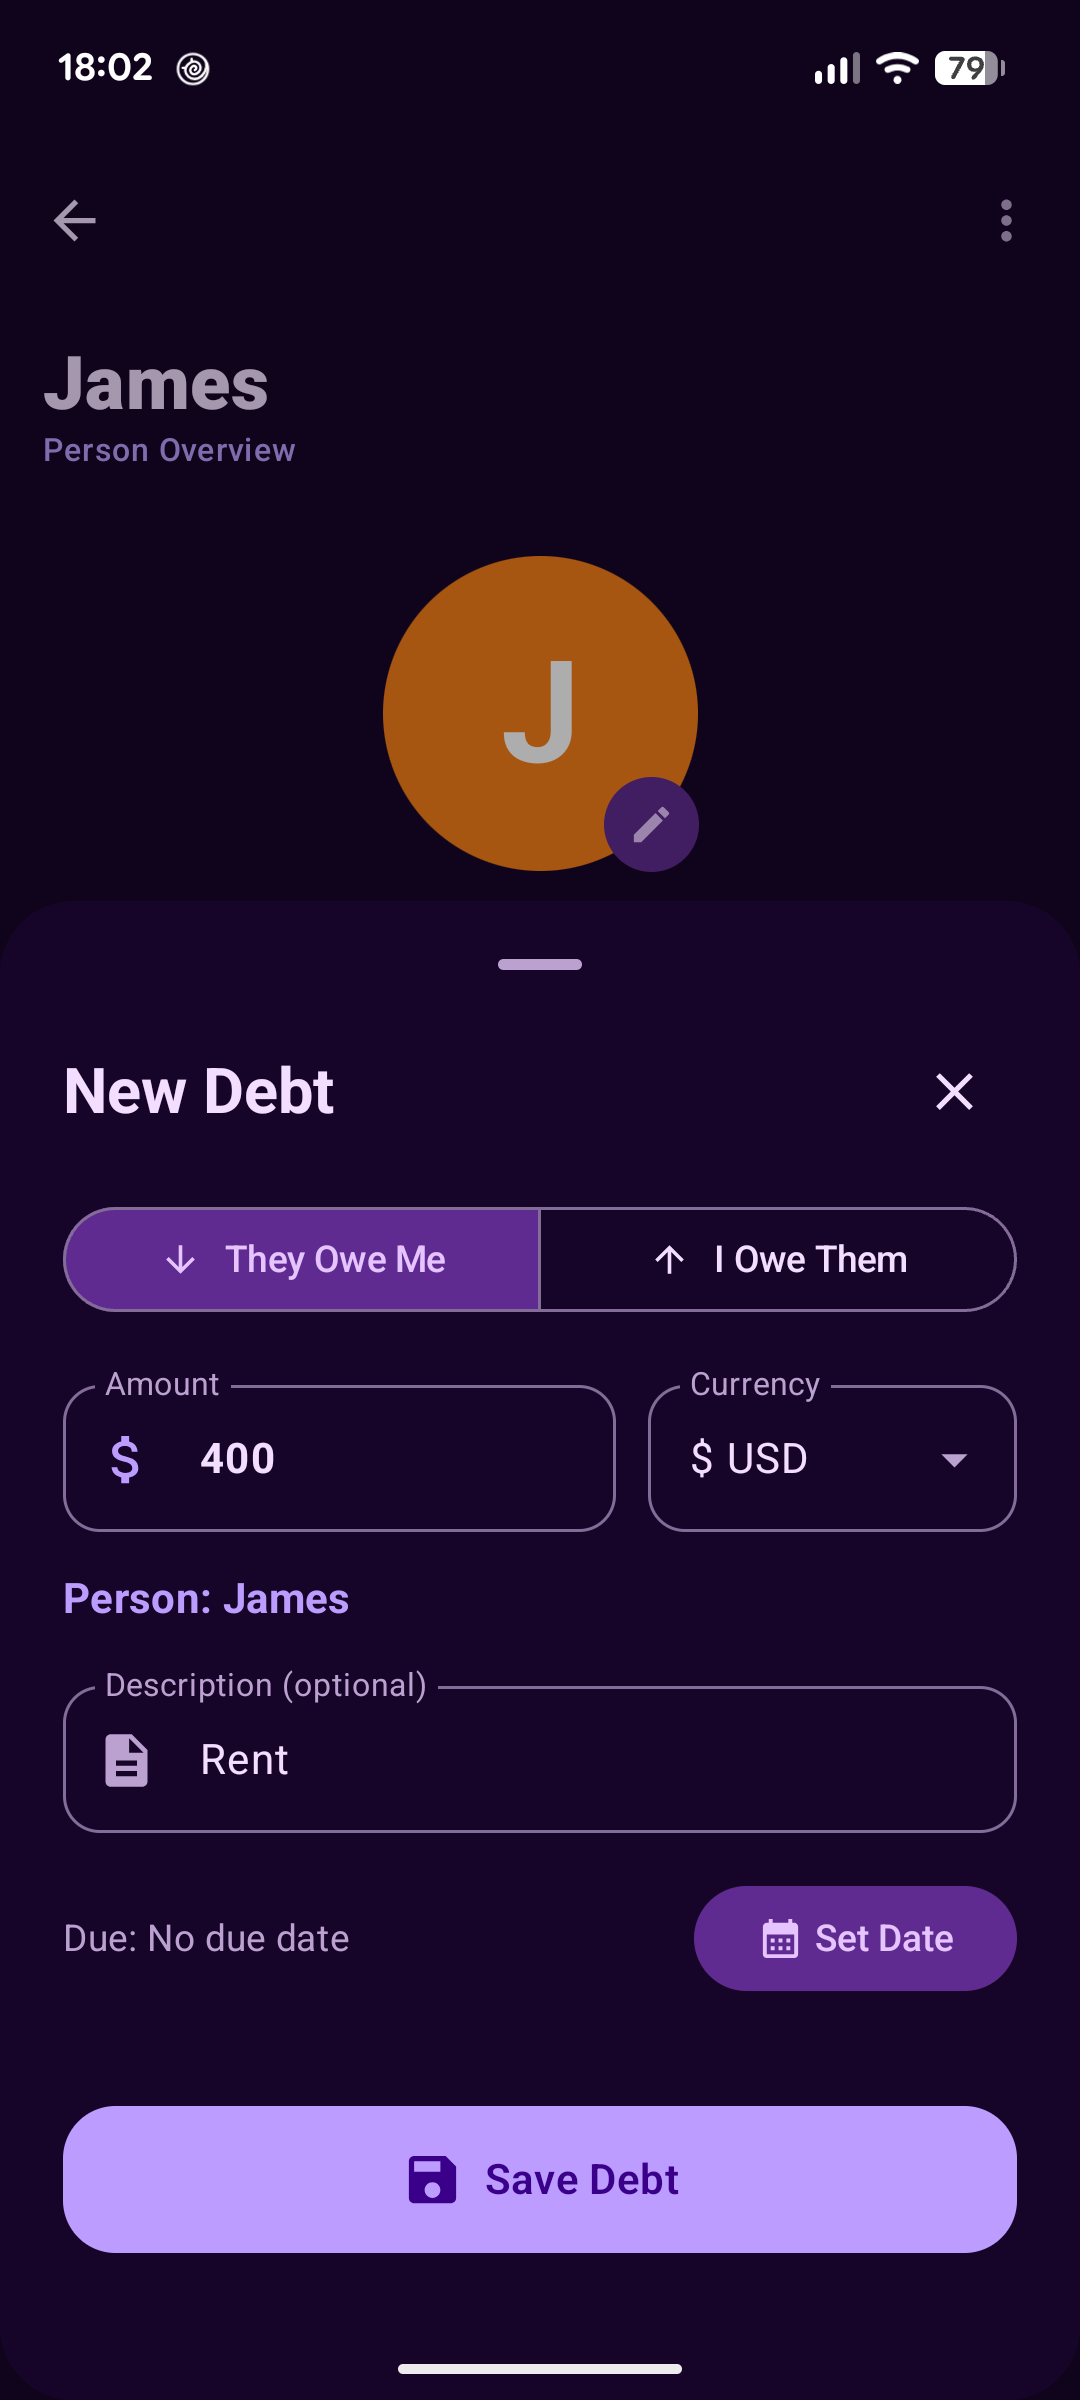
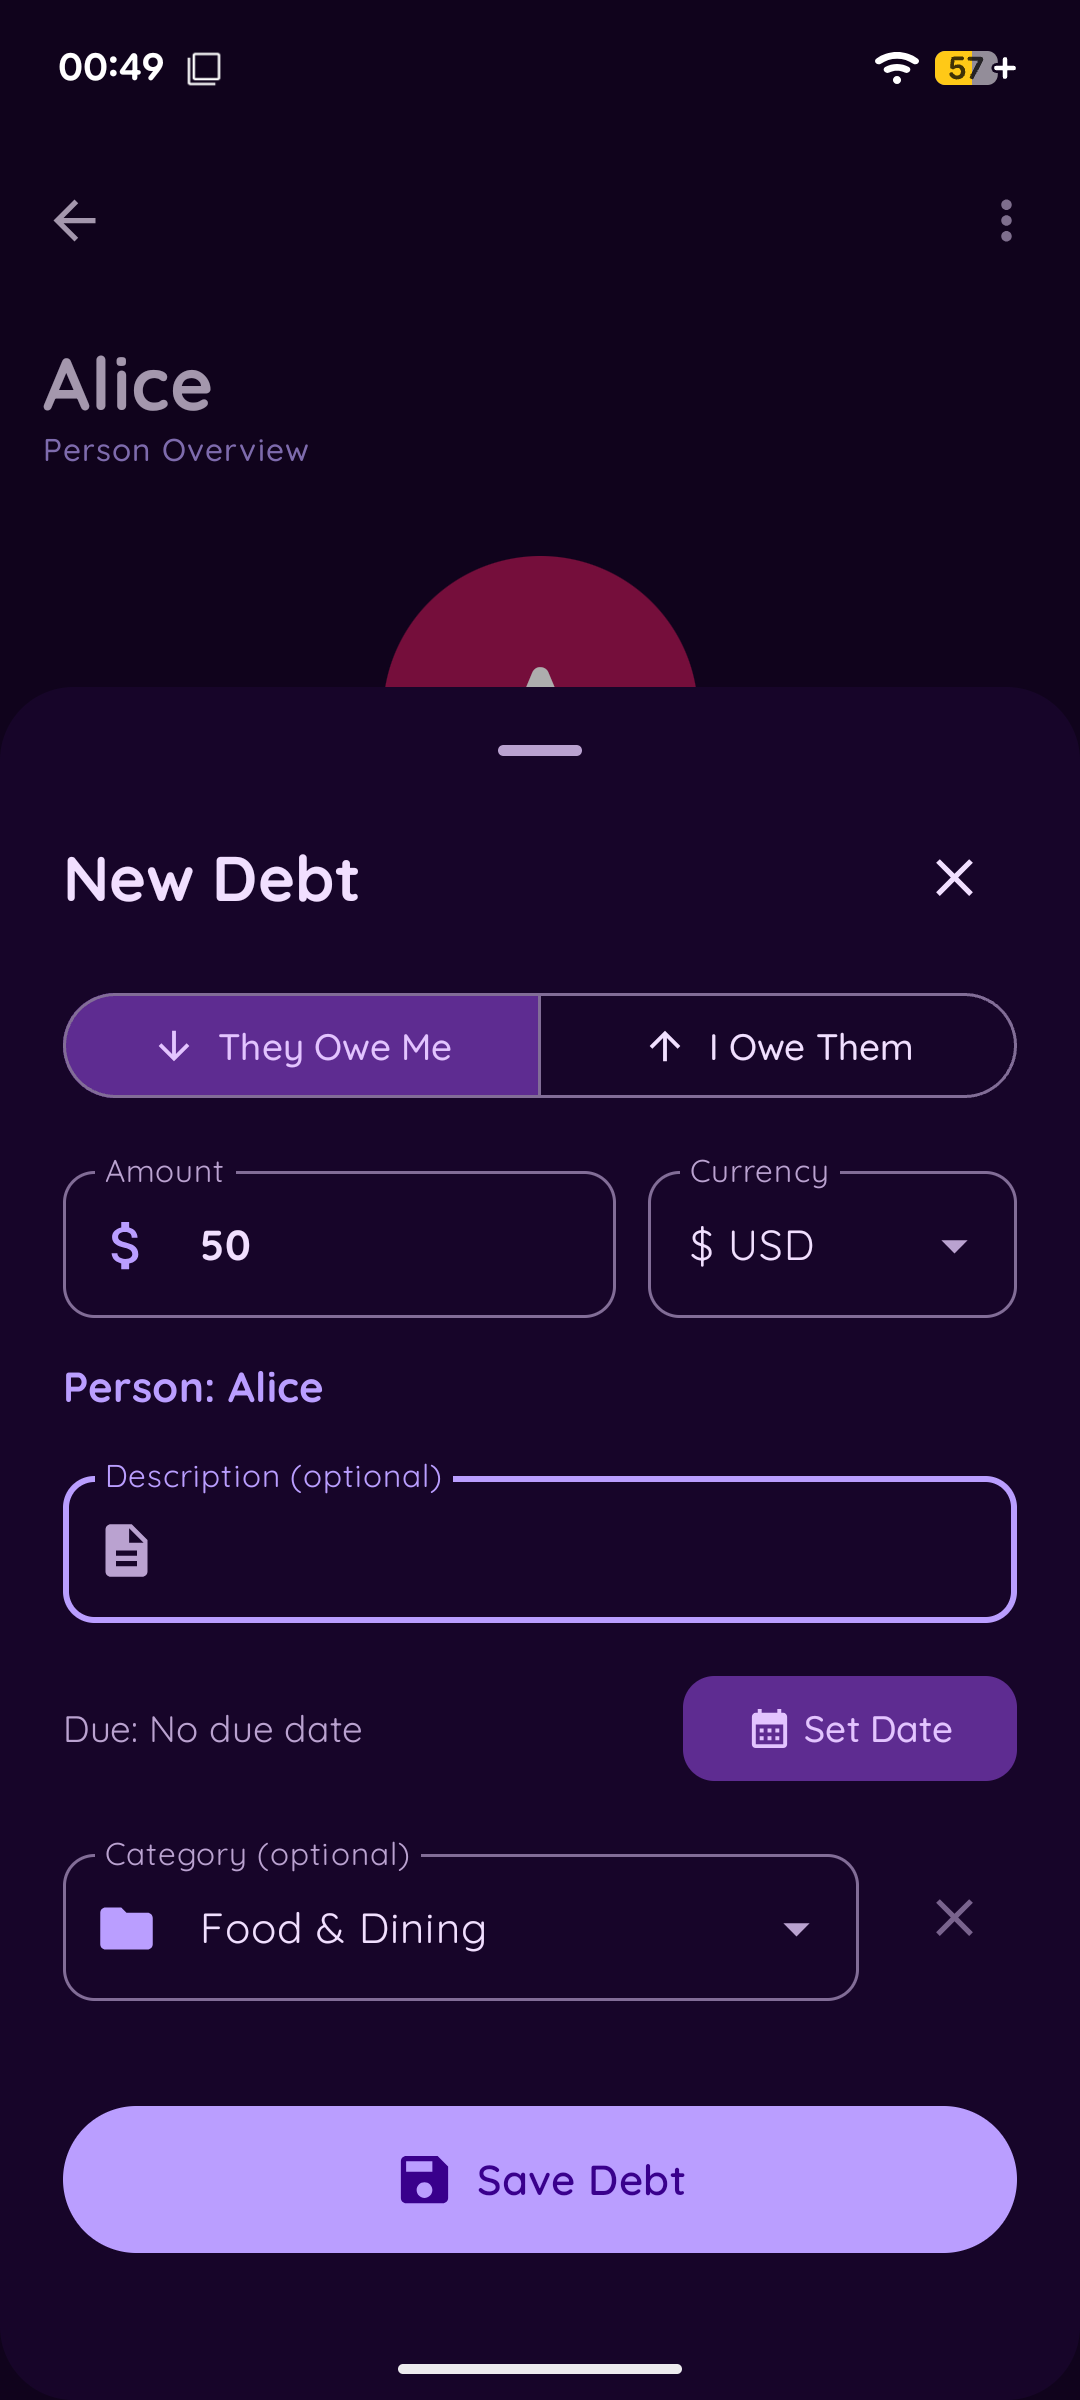
Update README screenshots and assets
- Replace the "Settings" column with "Statistics" in the `README.md` feature preview table.
- Add `stats.png` asset and remove `settings.png`.
- Update existing screenshot assets (`add_debt.png`, `dashboard.png`, and `details.png`).

diff --git a/README.md b/README.md
@@ -10,9 +10,9 @@
 Track who owes you, who you owe, and see the big picture — all stored locally on your device.
 No accounts, no sync, no analytics.
 
-| Dashboard | Add Debt | Details | Settings |
+| Dashboard | Add Debt | Details | Statistics |
 | :---: | :---: | :---: | :---: |
-| <img src="https://raw.githubusercontent.com/lciszewski27/where-is-my-money/refs/heads/main/assets/dashboard.png" width="200"/> | <img src="https://raw.githubusercontent.com/lciszewski27/where-is-my-money/refs/heads/main/assets/add_debt.png" width="200"/> | <img src="https://raw.githubusercontent.com/lciszewski27/where-is-my-money/refs/heads/main/assets/details.png" width="200"/> | <img src="https://raw.githubusercontent.com/lciszewski27/where-is-my-money/refs/heads/main/assets/settings.png" width="200"/> |
+| <img src="https://raw.githubusercontent.com/lciszewski27/where-is-my-money/refs/heads/main/assets/dashboard.png" width="200"/> | <img src="https://raw.githubusercontent.com/lciszewski27/where-is-my-money/refs/heads/main/assets/add_debt.png" width="200"/> | <img src="https://raw.githubusercontent.com/lciszewski27/where-is-my-money/refs/heads/main/assets/details.png" width="200"/> | <img src="https://raw.githubusercontent.com/lciszewski27/where-is-my-money/refs/heads/main/assets/stats.png" width="200"/> |
 
 ---
 
